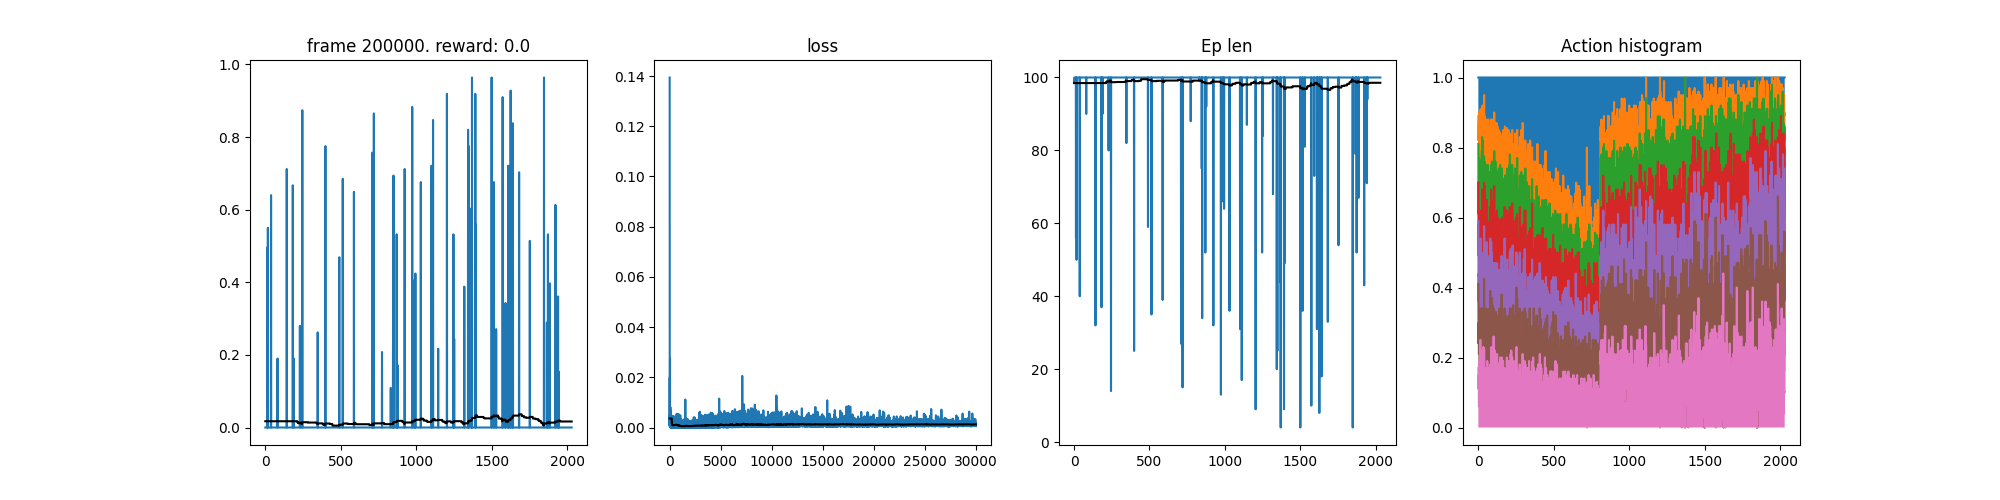
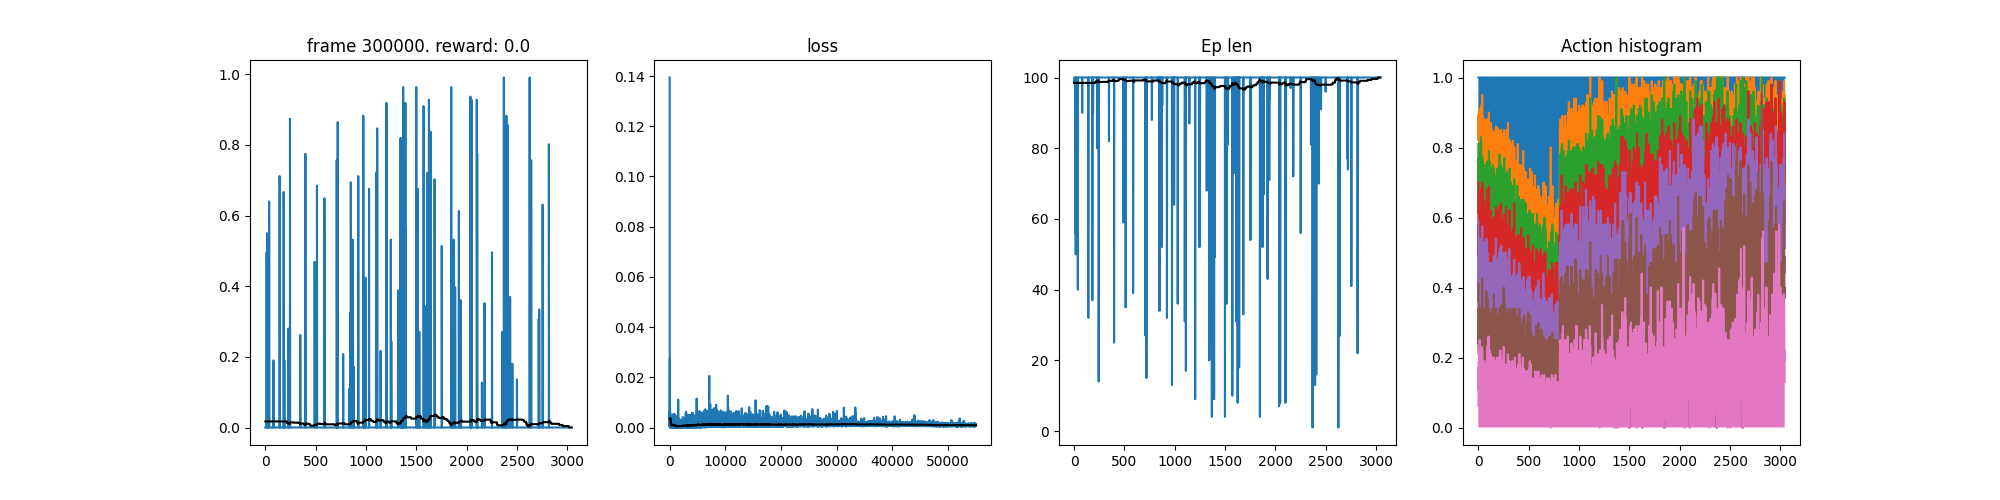
add minigrid

diff --git a/good_rainbow_src/dqn_alg.py b/good_rainbow_src/dqn_alg.py
@@ -106,7 +106,7 @@ class DQNAgent:
             conv_space: bool = False,
             min_memory_size: int = 80000,
             learning_interval: int = 4,  # is for 32 batch_size
-            epsilon_decay: float = 1 / 200000,  # min after 1M epizodes
+            epsilon_decay: float = 1 / 800000,  # min after 1M epizodes
             max_epsilon: float = 1,
             min_epsilon: float = 0.001,
             correct_dims: bool = False,

diff --git a/config/config.py b/config/config.py
@@ -22,7 +22,7 @@ def get_configs(configs_to_inject):
         },
         "params": {
             "seed": 123,
-            "num_frames": 400000,
+            "num_frames": 1000000,
             "memory_size": 100000,
             # in orginal is 1M sadly not anough ram 0.4M should be possible tho might get to swap so 0.3 for safety # goes to swap :( 0.09 for now
             "batch_size": 32,  # on internet  128 *12 test, 32 in paper
